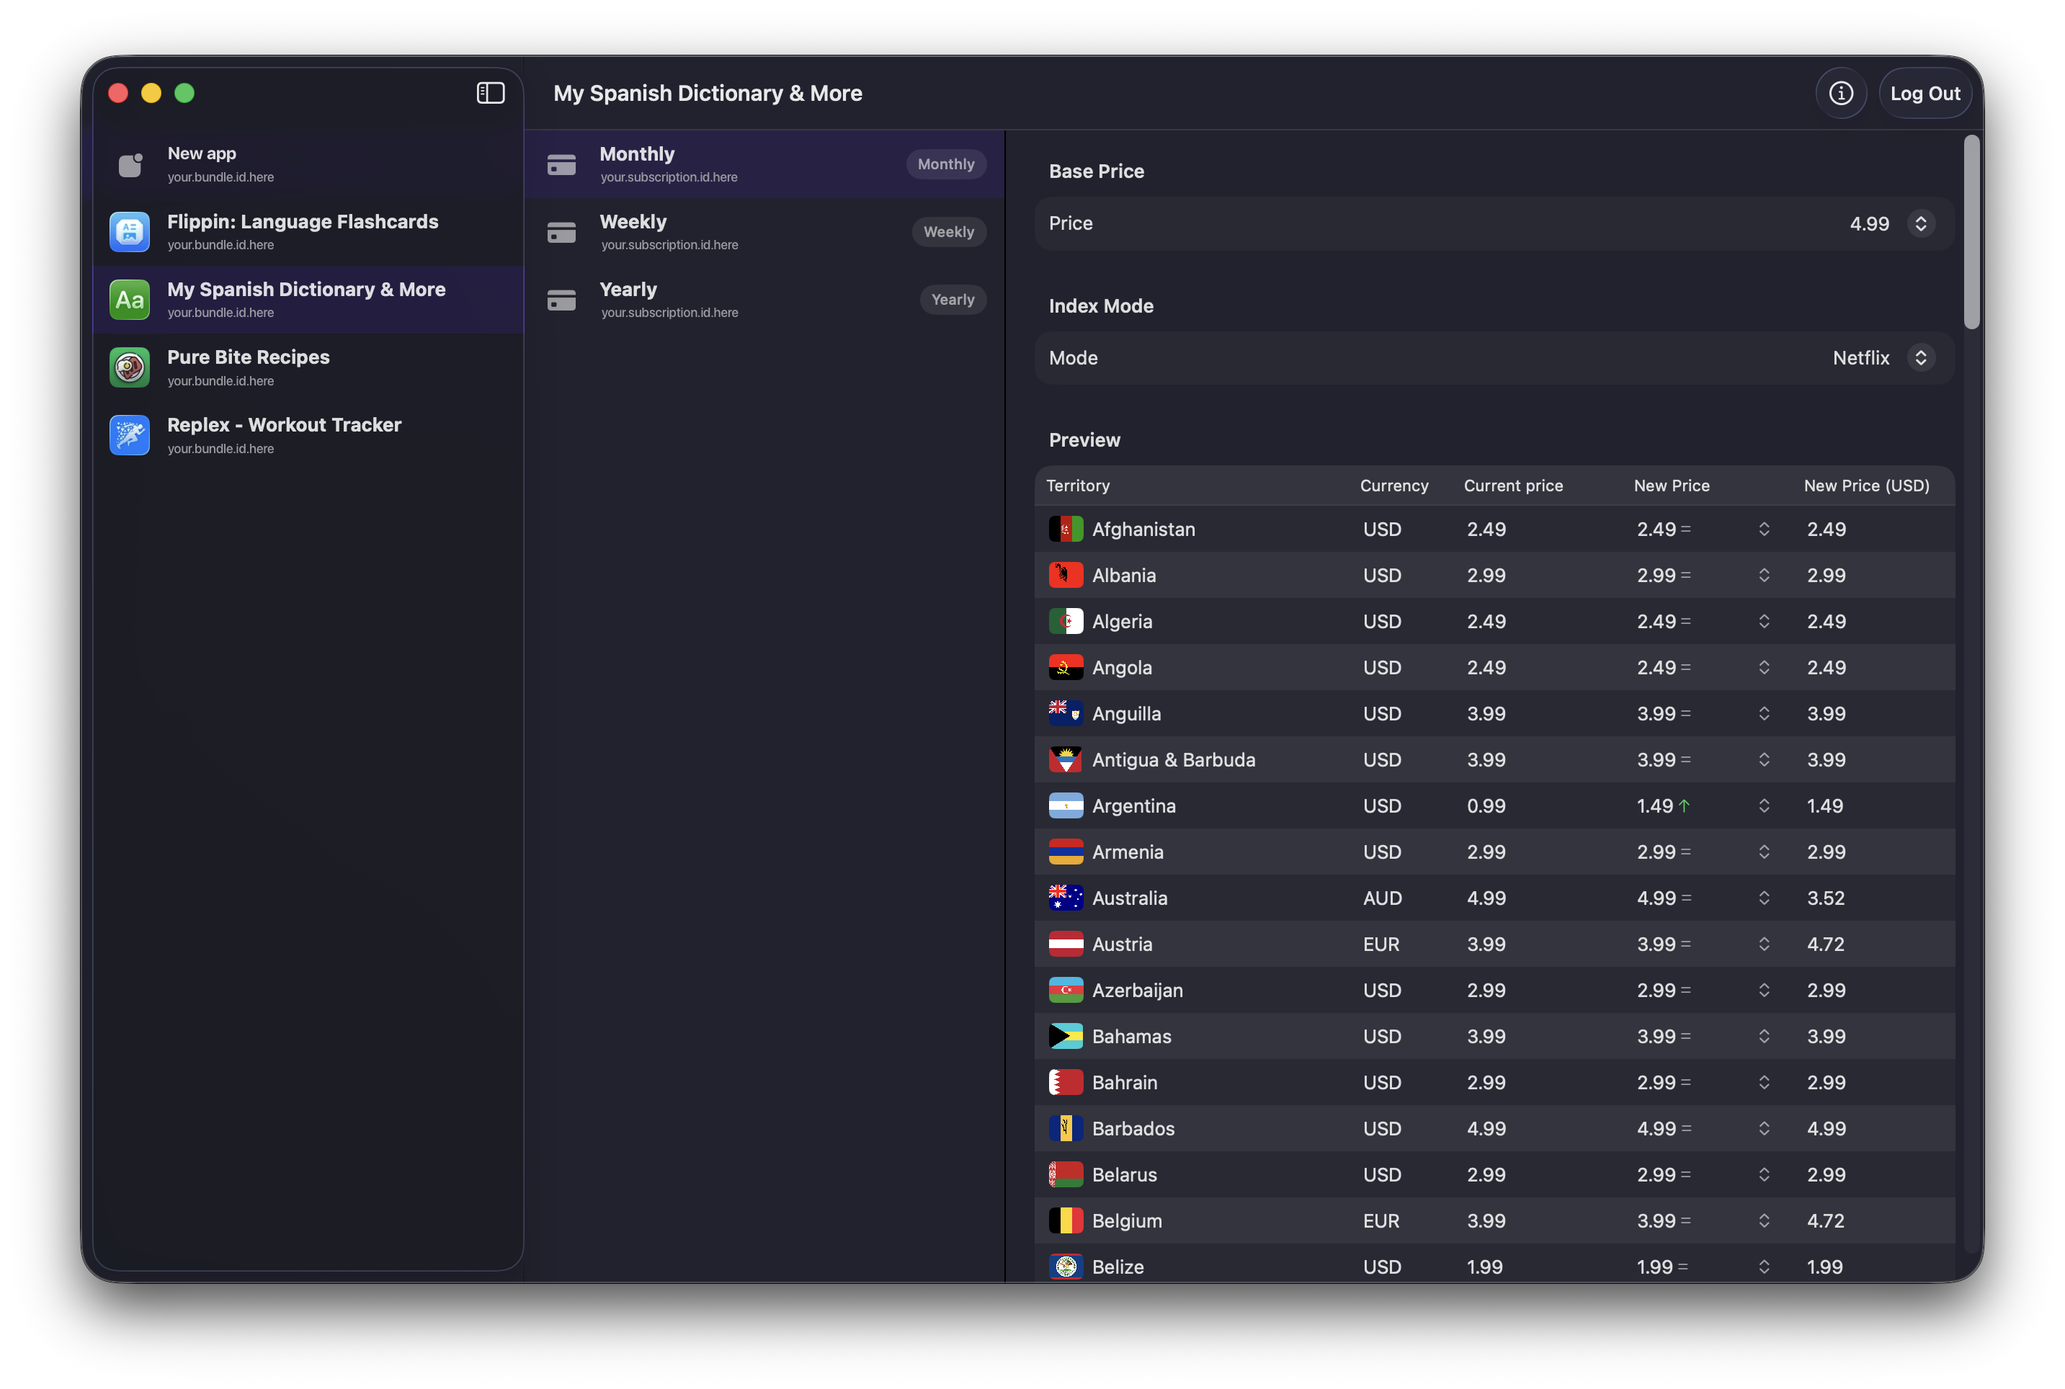
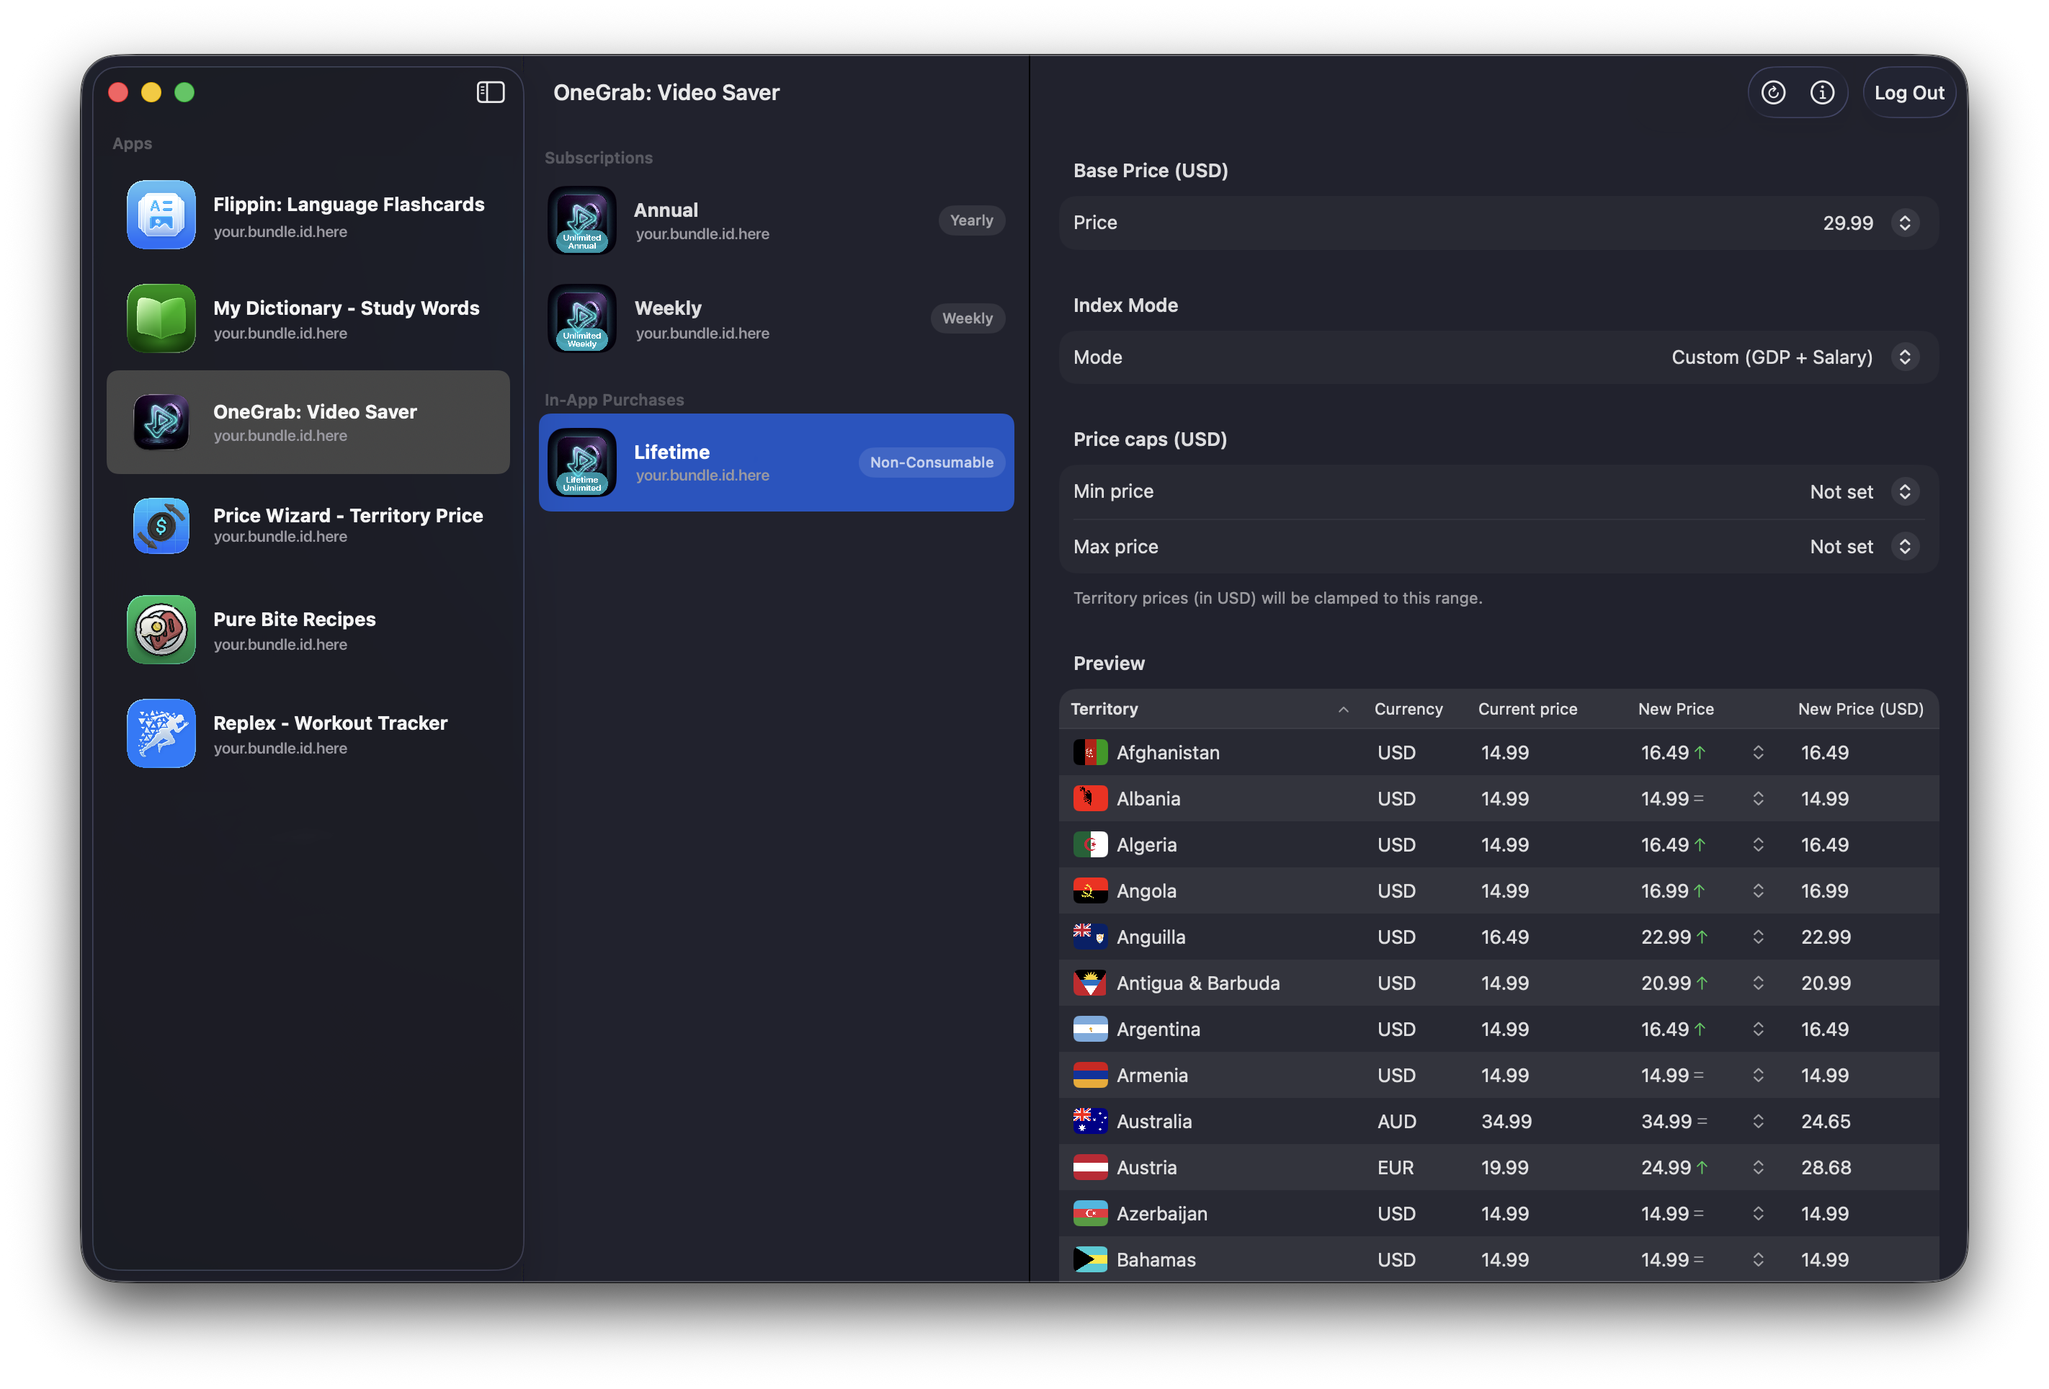
Update screenshot and some info

diff --git a/index.html b/index.html
@@ -12,22 +12,22 @@
   </script>
   <meta charset="UTF-8">
   <meta name="viewport" content="width=device-width, initial-scale=1.0">
-  <meta name="description" content="PriceWizard - Set App Store subscription prices for all territories from one screen. One-time purchase Mac app. No more updating 175 countries by hand.">
-  <title>PriceWizard - Subscription pricing for App Store Connect</title>
+  <meta name="description" content="PriceWizard - Localize App Store subscription prices by purchasing power, with pro-level safety and control. One screen to update 175+ countries in minutes.">
+  <title>PriceWizard - PPP-based subscription pricing for App Store Connect</title>
   <link rel="canonical" href="https://alexryakhin.github.io/PriceWizard/">
   <link rel="sitemap" type="application/xml" title="Sitemap" href="https://alexryakhin.github.io/PriceWizard/sitemap.xml">
   <!-- Open Graph -->
   <meta property="og:type" content="website">
   <meta property="og:url" content="https://alexryakhin.github.io/PriceWizard/">
-  <meta property="og:title" content="PriceWizard - Subscription pricing for App Store Connect">
-  <meta property="og:description" content="Set App Store subscription prices for all territories from one screen. One-time purchase Mac app. No more updating 175 countries by hand.">
+  <meta property="og:title" content="PriceWizard - PPP-based subscription pricing for App Store Connect">
+  <meta property="og:description" content="Localize App Store subscription prices by purchasing power and update 175+ countries from one safe bulk apply.">
   <meta property="og:image" content="https://alexryakhin.github.io/PriceWizard/assets/screenshot-mac-os.png">
   <meta property="og:site_name" content="PriceWizard">
   <meta property="og:locale" content="en_US">
   <!-- Twitter Card -->
   <meta name="twitter:card" content="summary_large_image">
-  <meta name="twitter:title" content="PriceWizard - Subscription pricing for App Store Connect">
-  <meta name="twitter:description" content="Set App Store subscription prices for all territories from one screen. One-time purchase Mac app. No more updating 175 countries by hand.">
+  <meta name="twitter:title" content="PriceWizard - PPP-based subscription pricing for App Store Connect">
+  <meta name="twitter:description" content="Localize App Store subscription prices by purchasing power and update 175+ countries from one safe bulk apply.">
   <meta name="twitter:image" content="https://alexryakhin.github.io/PriceWizard/assets/screenshot-mac-os.png">
   <link rel="icon" type="image/svg+xml" href="favicon/favicon.svg">
   <link rel="preconnect" href="https://fonts.googleapis.com">
@@ -40,8 +40,8 @@
     "@type": "SoftwareApplication",
     "name": "PriceWizard",
     "applicationCategory": "DeveloperApplication",
-    "operatingSystem": "macOS 15+",
-    "description": "Set App Store subscription prices for all territories from one screen. One-time purchase Mac app. No more updating 175 countries by hand in App Store Connect.",
+    "operatingSystem": "iOS 17+, macOS 15+",
+    "description": "Localize App Store subscription prices by purchasing power and update 175+ countries from one safe bulk apply in App Store Connect.",
     "offers": {
       "@type": "Offer",
       "price": "14.99",
@@ -77,12 +77,12 @@
   <main>
     <section class="hero">
       <div class="container hero-inner">
-        <div class="hero-badge">macOS app · Try free, then one-time purchase</div>
-        <h1 class="hero-title">Set subscription prices for <em>all</em> territories from one screen</h1>
-        <p class="hero-lead">No more updating 175 countries by hand in App Store Connect. Connect your API key, pick a base price, preview in every currency, and apply in one go. Try it free: 5 applies, then a one-time in-app purchase unlocks unlimited use.</p>
+        <div class="hero-badge">macOS &amp; iOS · PPP-aware pricing · One-time purchase</div>
+        <h1 class="hero-title">Localize App Store subscription prices by purchasing power</h1>
+        <p class="hero-lead">Stop guessing and stop clicking through 175 territories. Connect your App Store Connect API key, pick a US base price, apply Apple-, Netflix-, or Spotify-style regional pricing, and safely update every country from one screen.</p>
         <div class="hero-actions">
           <a href="https://apps.apple.com/app/id6759319356" class="btn btn-primary" id="download-cta" target="_blank" rel="noopener noreferrer">Download from App Store</a>
-          <a href="#features" class="btn btn-ghost">See what you get</a>
+          <a href="#problem" class="btn btn-ghost">See why this matters</a>
         </div>
         <div class="hero-visual">
           <img src="assets/screenshot-mac-os.png" alt="PriceWizard app window showing subscription prices by territory" class="hero-screenshot">
@@ -90,10 +90,34 @@
       </div>
     </section>
 
+    <section class="section problem" id="problem">
+      <div class="container">
+        <h2 class="section-title">$10 in the US is not $10 everywhere</h2>
+        <p class="privacy-lead" style="margin-bottom: 2rem;">A single global price is either too expensive for low-income countries or leaves money on the table in high-income ones. App Store Connect supports 175 territories, but updating them by hand is slow, error-prone, and easy to abandon.</p>
+        <ul class="feature-grid">
+          <li class="feature-card">
+            <span class="feature-icon" aria-hidden="true">🌍</span>
+            <h3>Missed revenue and unfair prices</h3>
+            <p>Without purchasing power parity, your price is often <em>too cheap</em> in rich countries and <em>too expensive</em> in others. Both hurt revenue.</p>
+          </li>
+          <li class="feature-card">
+            <span class="feature-icon" aria-hidden="true">⏱</span>
+            <h3>175 territories, one tiny web form</h3>
+            <p>Manually clicking through App Store Connect every time you want to adjust pricing is tedious, brittle, and makes experiments nearly impossible.</p>
+          </li>
+          <li class="feature-card">
+            <span class="feature-icon" aria-hidden="true">⚠</span>
+            <h3>Easy to make mistakes</h3>
+            <p>It only takes one wrong currency or date to break trust with users in an entire region.</p>
+          </li>
+        </ul>
+      </div>
+    </section>
+
     <section class="section features" id="features">
       <div class="container">
-        <h2 class="section-title">What you get</h2>
-        <p class="privacy-lead" style="margin-bottom: 2rem;">Go from hours in App Store Connect to one screen and one click.</p>
+        <h2 class="section-title">PriceWizard solves this with PPP-aware bulk pricing</h2>
+        <p class="privacy-lead" style="margin-bottom: 2rem;">Go from hours in App Store Connect to one safe bulk apply, while matching prices to local purchasing power instead of a flat number.</p>
         <ul class="feature-grid">
           <li class="feature-card">
             <span class="feature-icon" aria-hidden="true">🔑</span>
@@ -103,17 +127,46 @@
           <li class="feature-card">
             <span class="feature-icon" aria-hidden="true">💰</span>
             <h3>See every market before you commit</h3>
-            <p>Pick your US price and instantly see what each of 175 territories will charge in local currency and USD. No surprises, no wrong price in the wrong country.</p>
+            <p>Pick your US price and instantly see what each of 175+ territories will charge in local currency and USD. No surprises, no wrong price in the wrong country.</p>
           </li>
           <li class="feature-card">
             <span class="feature-icon" aria-hidden="true">📐</span>
-            <h3>Pricing that matches how the big players think</h3>
-            <p>Use Apple-style, Netflix-style, or Spotify-style regional pricing (or mix and override per territory). No spreadsheets, no guesswork.</p>
+            <h3>Apple-, Netflix-, and Spotify-style regional pricing</h3>
+            <p>Use Apple Equalization, Netflix-style, or Spotify-style regional pricing based on purchasing power. Override per territory when you need finer control.</p>
           </li>
           <li class="feature-card">
             <span class="feature-icon" aria-hidden="true">✓</span>
             <h3>Minutes, not hours</h3>
-            <p>One click applies the right price everywhere. The app skips what’s already correct and avoids conflicting dates. What used to take an hour is done in minutes.</p>
+            <p>One click applies the right price everywhere. The app skips what’s already correct and avoids conflicting dates, so experiments stay safe.</p>
+          </li>
+        </ul>
+      </div>
+    </section>
+
+    <section class="section how-it-works" id="how-it-works">
+      <div class="container">
+        <h2 class="section-title">How it works</h2>
+        <p class="privacy-lead" style="margin-bottom: 2rem;">From first launch to updated prices across 175+ countries in four steps.</p>
+        <ul class="feature-grid">
+          <li class="feature-card">
+            <span class="feature-icon" aria-hidden="true">1</span>
+            <h3>Connect App Store Connect</h3>
+            <p>Use your App Store Connect API key (Key ID, Issuer ID, and .p8 file). PriceWizard stores it only in your Mac’s Keychain and talks directly to Apple.</p>
+          </li>
+          <li class="feature-card">
+            <span class="feature-icon" aria-hidden="true">2</span>
+            <h3>Choose base price and strategy</h3>
+            <p>Select your US base price and pick a pricing strategy: Apple Equalization, Netflix-style PPP, or Spotify-style PPP. You can override any territory.</p>
+          </li>
+          <li class="feature-card">
+            <span class="feature-icon" aria-hidden="true">3</span>
+            <h3>Review every territory</h3>
+            <p>Preview the resulting price per territory, in local currency and USD, before you apply anything. Adjust outliers until it feels right.</p>
+          </li>
+          <li class="feature-card">
+            <span class="feature-icon" aria-hidden="true">4</span>
+            <h3>Apply safely in one go</h3>
+            <p>Apply changes across all territories from one screen. PriceWizard skips territories that already match your target price and won’t touch dates that already have a scheduled change.</p>
           </li>
         </ul>
       </div>
@@ -123,6 +176,7 @@
       <div class="container">
         <h2 class="section-title">Requirements</h2>
         <ul class="requirement-list">
+          <li><strong>iOS 17</strong> or later</li>
           <li><strong>macOS 15</strong> or later</li>
           <li><strong>App Store Connect API key</strong> with Key ID, Issuer ID, and .p8 file (Manager or Admin)</li>
         </ul>

diff --git a/terms.html b/terms.html
@@ -69,7 +69,7 @@
 
         <section class="prose-section">
           <h2>License and use</h2>
-          <p>PriceWizard is a macOS application that helps you manage App Store Connect subscription prices. We grant you a limited, non-exclusive, non-transferable license to use the app for your own use, subject to these terms and to the Apple Media Services Terms and Conditions that apply to in-app purchases.</p>
+          <p>PriceWizard is an iOS and macOS application that helps you manage App Store Connect subscription prices. We grant you a limited, non-exclusive, non-transferable license to use the app for your own use, subject to these terms and to the Apple Media Services Terms and Conditions that apply to in-app purchases.</p>
           <p>You may not reverse-engineer, decompile, disassemble, or attempt to derive the source code of the app, or sublicense or distribute the app to third parties, except as permitted by applicable law.</p>
         </section>
 
@@ -86,7 +86,7 @@
 
         <section class="prose-section">
           <h2>Disclaimer</h2>
-          <p>The app is provided “as is” without warranties of any kind, express or implied. We do not guarantee that the app will be error-free, secure, or compatible with all configurations or future versions of macOS or App Store Connect. You use the app and any actions it performs (including changes to your App Store Connect data) at your own risk.</p>
+          <p>The app is provided “as is” without warranties of any kind, express or implied. We do not guarantee that the app will be error-free, secure, or compatible with all configurations or future versions of iOS, macOS, or App Store Connect. You use the app and any actions it performs (including changes to your App Store Connect data) at your own risk.</p>
         </section>
 
         <section class="prose-section">

diff --git a/privacy.html b/privacy.html
@@ -64,7 +64,7 @@
       <div class="prose">
         <section class="prose-section">
           <h2>Introduction</h2>
-          <p>PriceWizard (“the app”) is a macOS application that helps you manage App Store Connect subscription prices across territories. This policy describes how we handle information in relation to the app and this website.</p>
+          <p>PriceWizard (“the app”) is an iOS and macOS application that helps you manage App Store Connect subscription prices across territories. This policy describes how we handle information in relation to the app and this website.</p>
         </section>
 
         <section class="prose-section">

diff --git a/css/layout.css b/css/layout.css
@@ -49,6 +49,16 @@
   }
 }
 
+/* Problem section: 3 cards centered on large screens */
+@media (min-width: 1024px) {
+  .problem .feature-grid {
+    grid-template-columns: repeat(3, 1fr);
+    max-width: 56rem;
+    margin-left: auto;
+    margin-right: auto;
+  }
+}
+
 .requirement-list {
   max-width: 36rem;
   margin: 0 auto var(--space-6);

diff --git a/support.html b/support.html
@@ -77,6 +77,7 @@
         <section class="prose-section">
           <h2>Requirements</h2>
           <ul>
+            <li><strong>iOS 17</strong> or later</li>
             <li><strong>macOS 15</strong> or later</li>
             <li><strong>App Store Connect API key</strong> with Key ID, Issuer ID, and .p8 file</li>
           </ul>

diff --git a/css/base.css b/css/base.css
@@ -14,7 +14,7 @@
 }
 
 html {
-  font-size: 16px;
+  font-size: 17px;
   -webkit-font-smoothing: antialiased;
   -moz-osx-font-smoothing: grayscale;
   scroll-behavior: smooth;

diff --git a/README.md b/README.md
@@ -1,14 +1,25 @@
 # PriceWizard
 
-An iOS and Mac app to set **App Store subscription prices** for all territories from one screen - no more updating 175 countries by hand in App Store Connect.
+Localize your App Store subscription prices by purchasing power and update 175+ countries from one safe bulk apply – no more clicking through App Store Connect by hand.
 
 **[Download on the App Store](https://apps.apple.com/app/id6759319356)**
 
 ---
 
+## What PriceWizard does
+
+- **Connects to App Store Connect** with your API key and talks directly to Apple’s API.  
+- **Lets you pick a US base price** and preview the resulting price in every territory (local currency + USD).  
+- **Applies Apple-, Netflix-, or Spotify-style regional pricing** based on purchasing power, with the option to override per territory.  
+- **Updates prices safely in one go** – skipping territories that already match your target price and avoiding dates that already have a scheduled price change.  
+
+Use it to run pricing experiments, make your app more affordable in lower-income countries, and stop undercharging in high-income ones, without fighting App Store Connect.
+
+---
+
 ## Requirements
 
-- **iOS 17** or later
+- **iOS 17** or later  
 - **macOS 15** or later  
 - **App Store Connect API key** (Key ID, Issuer ID, and `.p8` file) with **App Manager** or **Admin** access  
 
@@ -25,12 +36,22 @@ PriceWizard will ask for **Key ID**, **Issuer ID**, and the **.p8 file** when yo
 
 ---
 
-## What it does
+## How PriceWizard decides prices
 
-- **Connect** with your App Store Connect API key.  
-- **Pick a US base price** and see a **preview** of the new price in every territory (local currency + USD).  
-- **Choose a mode:** Apple Equalization, Netflix-style, or Spotify-style regional pricing; override per territory if needed.  
-- **Apply** all changes in one go. The app skips territories that already have the target price and won’t apply on a date that already has a scheduled price change.  
+At a high level:
+
+- You select a **US base price** for your subscription.  
+- You choose a **pricing mode**:
+  - **Apple Equalization** – follow Apple’s own regional equalization logic.  
+  - **Netflix-style** – tilt more toward affordability in lower-income countries.  
+  - **Spotify-style** – a balanced PPP-inspired profile commonly used by subscription apps.  
+- PriceWizard computes suggested prices per territory, shows you the matrix, and lets you **override any country** before applying.
+
+When you hit apply:
+
+- Territories that already have the target price are **skipped**.  
+- Dates that already have a scheduled price change are **left untouched**.  
+- Only the prices you actually intend to change are updated.
 
 ---
 
